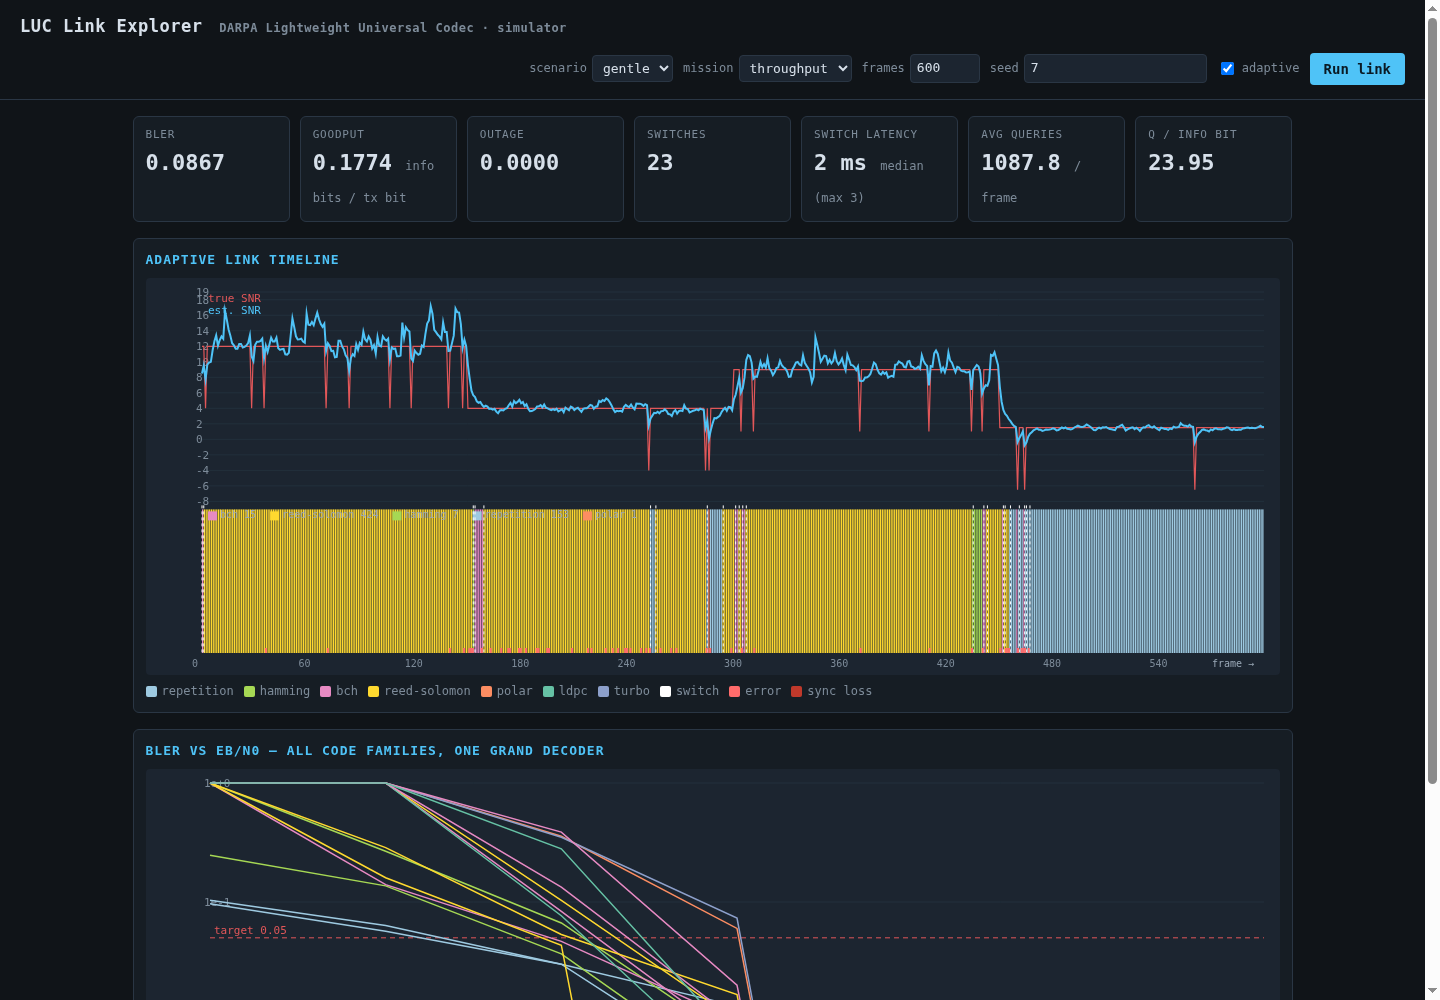
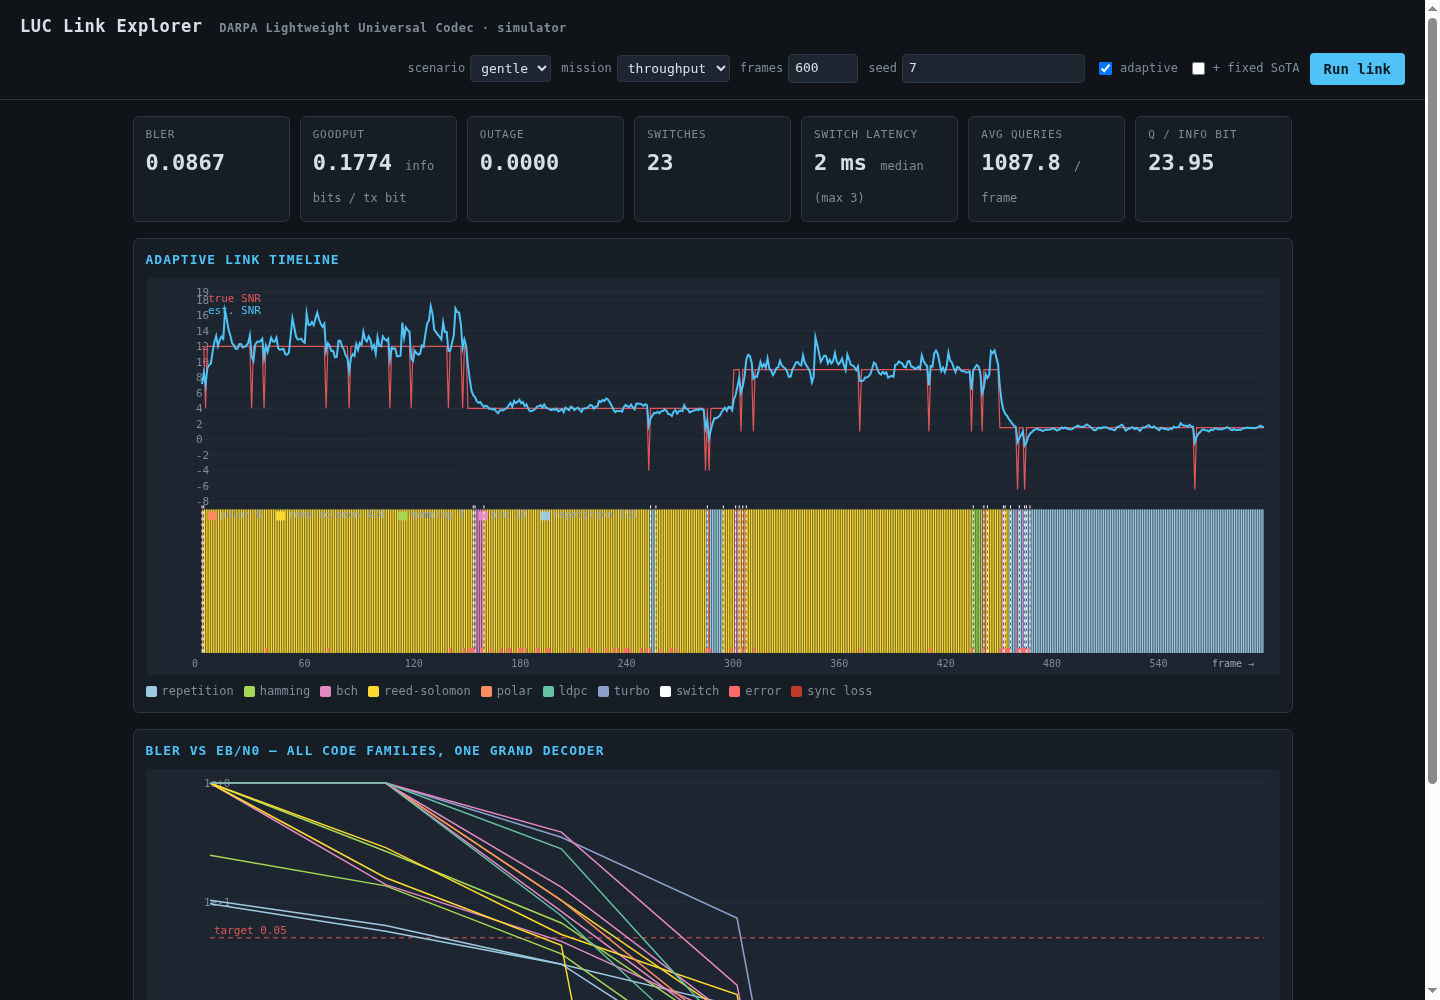
Add adaptive-vs-fixed comparison overlay to the LUC Link Explorer
'+ fixed SoTA' toggle runs the fixed baseline on the same channel and renders a
side-by-side comparison table (BLER, goodput, outage, queries, switches, switch
latency, codes used); deep-linkable via ?compare=1 and verified headlessly
(no page errors, table rows rendered).

diff --git a/active/dev-tools/luc-simulator/src/luc_sim/web/index.html b/active/dev-tools/luc-simulator/src/luc_sim/web/index.html
@@ -37,6 +37,10 @@
   .card .k { color: var(--dim); font-size: 11px; text-transform: uppercase; letter-spacing: .8px; }
   .card .v { font-size: 22px; font-weight: 700; margin-top: 4px; }
   .card .v small { font-size: 12px; color: var(--dim); font-weight: 400; }
+  .compare-table { width: 100%; border-collapse: collapse; font-size: 13px; }
+  .compare-table th, .compare-table td { text-align: left; padding: 5px 12px; border-bottom: 1px solid var(--border); }
+  .compare-table th { color: var(--accent); font-size: 11px; text-transform: uppercase; letter-spacing: 1px; }
+  .compare-table td:first-child { color: var(--dim); }
   .panel { background: var(--panel); border: 1px solid var(--border); border-radius: 6px; padding: 12px; margin-bottom: 16px; }
   .panel h2 { font-size: 13px; margin: 0 0 8px; color: var(--accent); text-transform: uppercase; letter-spacing: 1px; }
   canvas { width: 100%; height: auto; display: block; background: var(--panel2); border-radius: 4px; }
@@ -61,11 +65,16 @@
     <label>frames <input id="frames" type="number" value="600" min="100" max="2000" step="100"></label>
     <label>seed <input id="seed" type="number" value="7"></label>
     <label><input id="adaptive" type="checkbox" checked> adaptive</label>
+    <label><input id="compare" type="checkbox"> + fixed SoTA</label>
     <button id="run">Run link</button>
   </div>
 </header>
 <main>
   <div class="cards" id="cards"></div>
+  <div class="panel" id="compare-panel" style="display:none">
+    <h2>Adaptive vs fixed (SoTA) baseline — same channel</h2>
+    <div class="compare-table" id="compare-table"></div>
+  </div>
   <div class="panel">
     <h2>Adaptive link timeline</h2>
     <canvas id="timeline" width="1200" height="420"></canvas>
@@ -272,6 +281,28 @@ function renderStats() {
   ).join("");
 }
 
+function renderComparison(fixedData) {
+  const a = simData.stats, f = fixedData.stats;
+  const lat = a.switch_latency_ms;
+  const rows = [
+    ["BLER", a.bler, f.bler],
+    ["Goodput (info bits / tx bit)", a.goodput, f.goodput],
+    ["Outage", a.outage, f.outage],
+    ["Avg queries / frame", a.avg_queries, f.avg_queries],
+    ["Queries / info bit", a.queries_per_info_bit, f.queries_per_info_bit],
+    ["Code switches", a.switches, f.switches],
+    ["Switch latency (ms)", lat.median == null ? "—" : lat.median, "—"],
+    ["Code", Object.entries(a.usage).map(([k, v]) => `${k}=${v}`).join(", "), Object.keys(f.usage).join(", ") + " (fixed)"],
+  ];
+  const fmt = (v) => typeof v === "number" ? (Math.abs(v) < 1 && v !== 0 ? v.toFixed(4) : v.toFixed(2)) : v;
+  $("compare-table").innerHTML =
+    `<table class="compare-table"><tr><th>metric</th><th>adaptive (LUC)</th><th>fixed (SoTA)</th></tr>` +
+    rows.map(([k, va, vb]) =>
+      `<tr><td>${k}</td><td>${fmt(va)}</td><td>${fmt(vb)}</td></tr>`
+    ).join("") + `</table>`;
+  $("compare-panel").style.display = "block";
+}
+
 function renderLegend(codes) {
   const fams = [...new Set(codes.map(c => c.family))];
   $("legend").innerHTML = fams.map(f =>
@@ -299,14 +330,22 @@ async function run() {
     mission: $("mission").value, scenario: $("scenario").value,
     adaptive: $("adaptive").checked ? "1" : "0",
   });
+  const wantCompare = $("compare").checked && $("adaptive").checked;
   try {
     const t0 = performance.now();
-    simData = await fetchJSON("/api/sim?" + q.toString());
+    const [sim, fixed] = await Promise.all([
+      fetchJSON("/api/sim?" + q.toString()),
+      wantCompare ? fetchJSON("/api/sim?" + q.toString() + "&adaptive=0") : null,
+    ]);
+    simData = sim;
     $("status").textContent =
       `link complete in ${((performance.now() - t0) / 1000).toFixed(1)} s` +
-      ` · mission=${simData.meta.mission} adaptive=${simData.meta.adaptive} · ` +
-      Object.entries(simData.stats.usage).map(([k, v]) => `${k}=${v}`).join(", ");
+      ` · mission=${simData.meta.mission} adaptive=${simData.meta.adaptive}` +
+      (wantCompare ? ` · fixed baseline: ${fixed.stats.usage.code || "(fixed)"}` : "") +
+      ` · ` + Object.entries(simData.stats.usage).map(([k, v]) => `${k}=${v}`).join(", ");
     renderStats();
+    if (wantCompare) renderComparison(fixed);
+    else $("compare-panel").style.display = "none";
     drawTimeline();
   } catch (err) {
     $("status").textContent = "error: " + err.message;
@@ -326,6 +365,9 @@ async function loadCurves() {
 }
 
 (async function init() {
+  if (new URLSearchParams(location.search).get("compare") === "1") {
+    $("compare").checked = true;  // deep-linkable + headless-verifiable
+  }
   try {
     const codes = await fetchJSON("/api/codes");
     renderLegend(codes.codes);

diff --git a/active/dev-tools/luc-simulator/docs/index.md b/active/dev-tools/luc-simulator/docs/index.md
@@ -114,7 +114,10 @@ vanilla JS/Canvas) at `http://127.0.0.1:8080`:
 * **summary cards** — BLER, goodput, outage, switches, switch latency;
 * the **BLER curves** for all code families (log-y) with the target line;
 * controls to re-run with a different scenario / mission / frame count / seed,
-  including the non-adaptive (SoTA) baseline.
+  including the non-adaptive (SoTA) baseline;
+* a **+ fixed SoTA** toggle that runs the fixed baseline on the same channel
+  and shows an adaptive-vs-SoTA comparison table (BLER, goodput, outage,
+  queries, switches, switch latency) — deep-linkable with `?compare=1`.
 
 API: `GET /api/codes`, `/api/sim?frames=&seed=&mission=&scenario=&adaptive=`,
 `/api/curves?snr=&frames=`.
